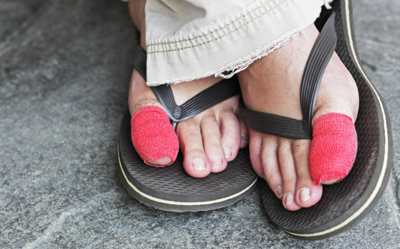
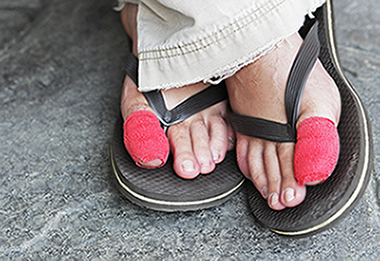
client changes to toenails text. changed image size tomatch

diff --git a/ingrown-toenails/index.php b/ingrown-toenails/index.php
@@ -13,7 +13,7 @@
   <div class="large-12 columns">
      <img class="inline-wrap" src="../images/ingrown-bandaged-toes.jpg" alt="Photograph a pair of feet in black flip-flops. Both big toes are wrapped in bright pick bandages.">
      <p>
-There are many different types of foot infections, some simple, and others complex. They are categorized into 3 groups: soft tissue, bone, and diabetic foot infections. Signs of infection may include increased pain, swelling, redness, or warmth around the affected area red streaks extending from the affected area, pus draining from the area. Many events can be responsible for soft tissue infections. A description of soft tissue infections includes simple, moderate, and severe infections, Bone can be involved when an infectious process is present in the foot because of the close proximity to the skin and lack of a thick, soft tissue, protective layer throughout most parts of the foot. People with diabetes who get an infection are at high risk for complications such as ulcerations in the feet, which often lead to serious infection of the soft tissue and bones.       
+Ingrown toenails (onychocryptosis) is a common condition in which the corner or side of a toenail, usually the big toe, grows into the soft skin. Symptoms include pain, redness, and swelling and, sometimes, drainage caused by a bacterial infection. They can be hereditary, caused by a poor fitting shoe, an errant trimming of the nail or repeated trauma from walking or running. Other than soaking in warm water at home and using a topical antibiotic, treatment requires a sterile environment, the proper tools, and the skills of a podiatrist. Fortunately, once removed, relief and recovery is quick.   
      </p>
      
 <p>Dr. Ouska-Griffin uses a conservative two step approach.</p>
